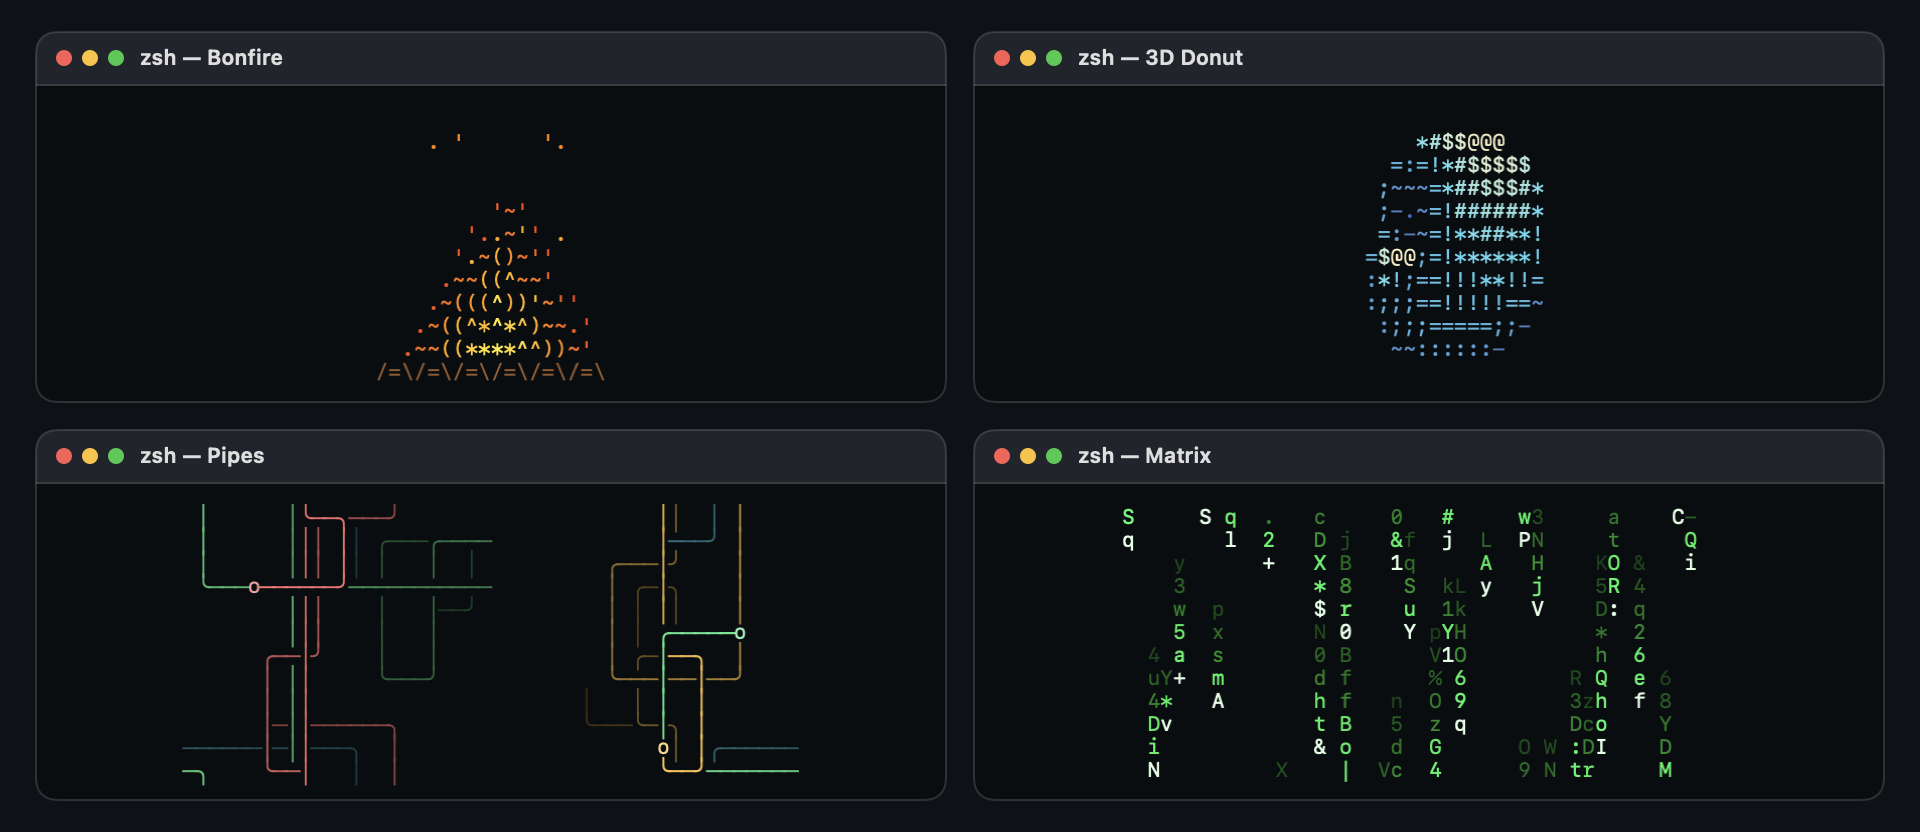
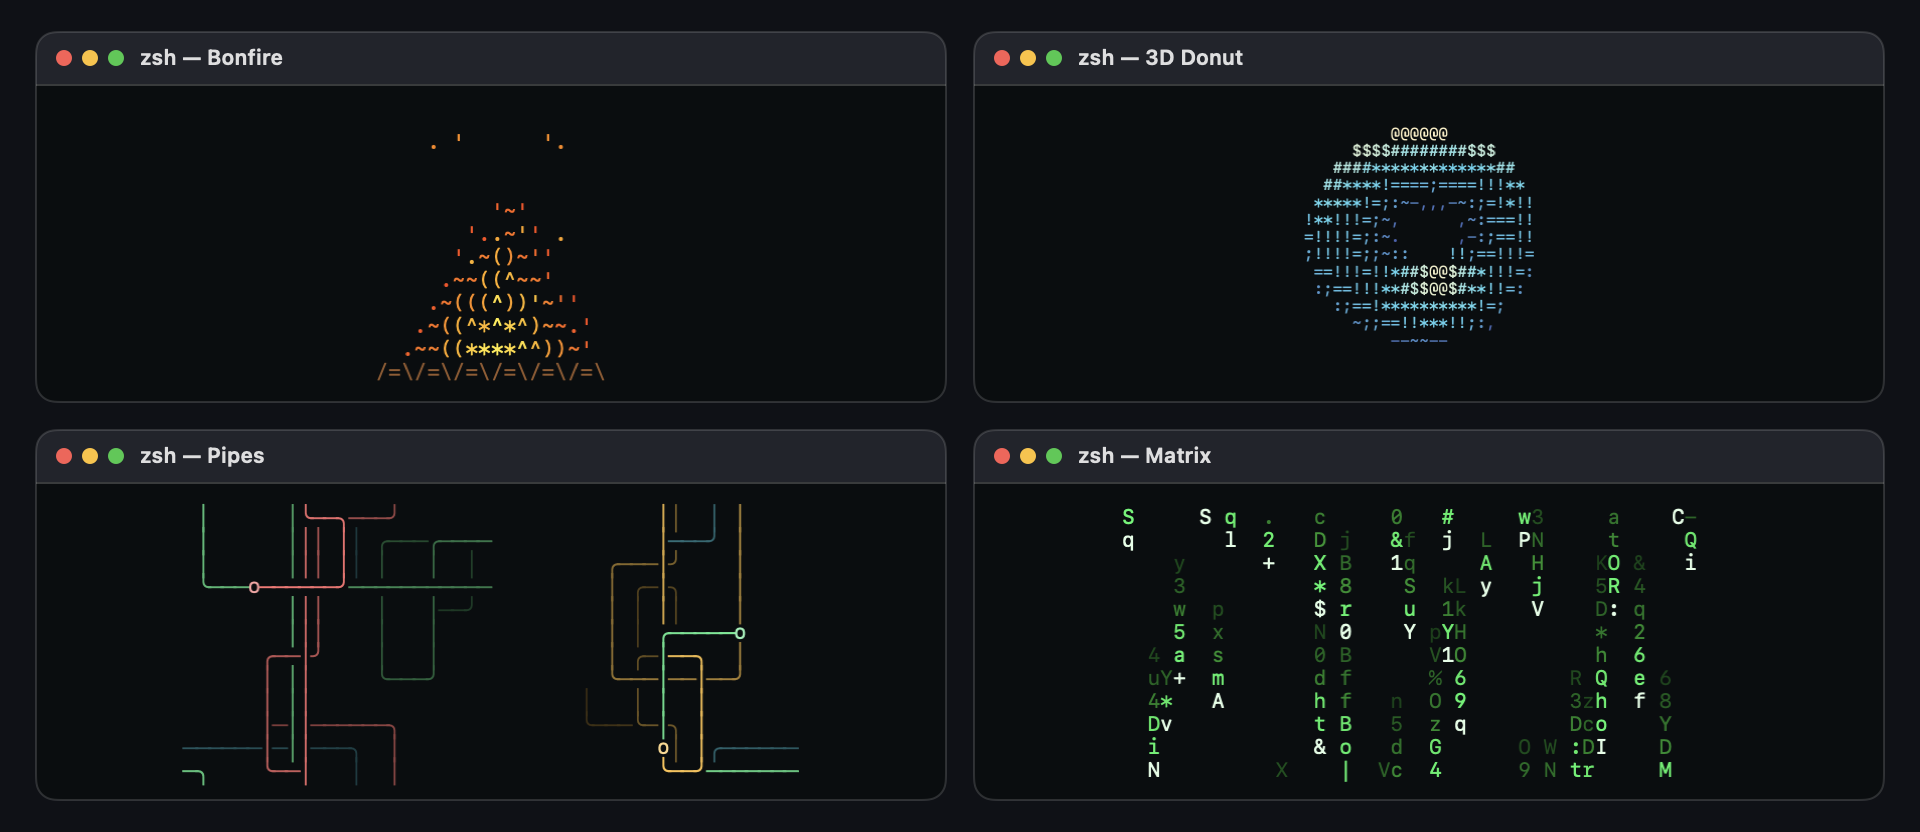
docs: improve 3D Donut angle and add compact custom media cutout demo

Changed region(s): [[0.6875, 0.1562, 0.8125, 0.4375]]

diff --git a/Scripts/generate_tool_graphics.swift b/Scripts/generate_tool_graphics.swift
@@ -34,6 +34,49 @@ struct GenerateToolGraphics {
             height: 170,
             to: outputDir.appendingPathComponent("yeoman_scroll_reverser.png")
         )
+
+        let args = CommandLine.arguments
+        if let srcIdx = args.firstIndex(of: "--media-source"), srcIdx + 1 < args.count,
+           let cutIdx = args.firstIndex(of: "--media-cutout"), cutIdx + 1 < args.count {
+            let requestedFrame: Int = {
+                if let fIdx = args.firstIndex(of: "--media-frame"), fIdx + 1 < args.count,
+                   let parsed = Int(args[fIdx + 1]) {
+                    return parsed
+                }
+                return 6
+            }()
+            do {
+                let sourceURL = URL(fileURLWithPath: args[srcIdx + 1])
+                let cutoutURL = URL(fileURLWithPath: args[cutIdx + 1])
+                let sourceData = try Data(contentsOf: sourceURL)
+                let cutoutData = try Data(contentsOf: cutoutURL)
+                let sourceDecoded = try TerminalSaverMediaDecoder.decodeImage(data: sourceData)
+                let cutoutDecoded = try TerminalSaverMediaDecoder.decodeImage(data: cutoutData)
+                guard !sourceDecoded.frames.isEmpty, !cutoutDecoded.frames.isEmpty else {
+                    print("Skipped custom media graphic: decoded frame list is empty")
+                    return
+                }
+                let frameIndex = max(0, min(requestedFrame, min(sourceDecoded.frames.count, cutoutDecoded.frames.count) - 1))
+                let sourceCG = sourceDecoded.frames[frameIndex].image
+                let cutoutCG = cutoutDecoded.frames[frameIndex].image
+                let settings = ASCIIRenderSettings(style: .filigree, colorPreset: .original, fitMode: .contain)
+                let fullASCII = ASCIIRenderEngine.render(image: sourceCG, columns: 56, rows: 18, settings: settings)
+                let cutoutASCII = ASCIIRenderEngine.render(image: cutoutCG, columns: 56, rows: 18, settings: settings)
+
+                capture(
+                    view: CustomMediaDemoGraphic(
+                        sourceCG: sourceCG,
+                        fullASCII: fullASCII,
+                        cutoutASCII: cutoutASCII
+                    ).preferredColorScheme(.dark),
+                    width: 960,
+                    height: 236,
+                    to: outputDir.appendingPathComponent("yeoman_terminal_saver_media.png")
+                )
+            } catch {
+                print("Failed custom media graphic: \(error)")
+            }
+        }
     }
 
     @MainActor
@@ -102,7 +145,7 @@ private struct TerminalSaverShowcaseGraphic: View {
         height: 158
     )
     private let donutImage = renderASCIIToImage(
-        TerminalSaverProceduralScenes.frame(scene: .spinningDonut, columns: 48, rows: 12, time: 2.3),
+        TerminalSaverProceduralScenes.frame(scene: .spinningDonut, columns: 56, rows: 16, time: 1.15),
         width: 452,
         height: 158
     )
@@ -490,5 +533,93 @@ private struct ScrollDeviceCard: View {
         .frame(maxWidth: .infinity, maxHeight: .infinity)
         .background(RoundedRectangle(cornerRadius: 11).fill(Color(red: 0.11, green: 0.12, blue: 0.14)))
         .overlay(RoundedRectangle(cornerRadius: 11).stroke(Color.white.opacity(0.12), lineWidth: 1))
+    }
+}
+
+// MARK: - 4. Compact Custom Media & Cutout Pipeline
+
+private struct CustomMediaDemoGraphic: View {
+    let sourceImage: NSImage
+    let fullASCIIImage: NSImage
+    let cutoutASCIIImage: NSImage
+
+    init(sourceCG: CGImage, fullASCII: ASCIIFrame, cutoutASCII: ASCIIFrame) {
+        self.sourceImage = NSImage(cgImage: sourceCG, size: NSSize(width: sourceCG.width, height: sourceCG.height))
+        self.fullASCIIImage = renderASCIIToImage(fullASCII, width: 280, height: 164)
+        self.cutoutASCIIImage = renderASCIIToImage(cutoutASCII, width: 280, height: 164)
+    }
+
+    var body: some View {
+        ZStack {
+            canvasBackground
+
+            HStack(spacing: 12) {
+                MediaStageCard(title: "Source Media") {
+                    Image(nsImage: sourceImage)
+                        .resizable()
+                        .aspectRatio(contentMode: .fit)
+                        .frame(maxWidth: .infinity, maxHeight: .infinity)
+                        .padding(8)
+                        .background(Color(red: 0.04, green: 0.05, blue: 0.06))
+                }
+
+                Image(systemName: "arrow.right")
+                    .font(.system(size: 13, weight: .semibold))
+                    .foregroundColor(.white.opacity(0.45))
+
+                MediaStageCard(title: "zsh — Filigree ASCII") {
+                    Image(nsImage: fullASCIIImage)
+                        .resizable()
+                        .frame(maxWidth: .infinity, maxHeight: .infinity)
+                }
+
+                Image(systemName: "arrow.right")
+                    .font(.system(size: 13, weight: .semibold))
+                    .foregroundColor(.white.opacity(0.45))
+
+                MediaStageCard(title: "zsh — Remove Background") {
+                    Image(nsImage: cutoutASCIIImage)
+                        .resizable()
+                        .frame(maxWidth: .infinity, maxHeight: .infinity)
+                }
+            }
+            .padding(16)
+        }
+    }
+}
+
+private struct MediaStageCard<Content: View>: View {
+    let title: String
+    @ViewBuilder let content: () -> Content
+
+    var body: some View {
+        VStack(spacing: 0) {
+            HStack(spacing: 7) {
+                HStack(spacing: 4.5) {
+                    Circle().fill(Color(red: 1.0, green: 0.36, blue: 0.33)).frame(width: 7.5, height: 7.5)
+                    Circle().fill(Color(red: 1.0, green: 0.76, blue: 0.18)).frame(width: 7.5, height: 7.5)
+                    Circle().fill(Color(red: 0.16, green: 0.79, blue: 0.28)).frame(width: 7.5, height: 7.5)
+                }
+                Text(title)
+                    .font(.system(size: 10.5, weight: .semibold))
+                    .foregroundColor(.white.opacity(0.85))
+                Spacer()
+            }
+            .padding(.horizontal, 10)
+            .frame(height: 25)
+            .background(Color(red: 0.13, green: 0.14, blue: 0.17))
+
+            Divider().background(Color.white.opacity(0.1))
+
+            content()
+                .frame(maxWidth: .infinity)
+                .frame(height: 164)
+        }
+        .background(Color(red: 0.04, green: 0.05, blue: 0.06))
+        .clipShape(RoundedRectangle(cornerRadius: 10))
+        .overlay(
+            RoundedRectangle(cornerRadius: 10)
+                .stroke(Color.white.opacity(0.14), lineWidth: 1)
+        )
     }
 }

diff --git a/README.md b/README.md
@@ -66,6 +66,10 @@ Displays multicolor, edge-aware filigree ASCII art in any terminal emulator (`Te
 - **Shell & tmux Integration:** Bundles a standalone `YeomanTermSaver` CLI helper managed via idempotent delimited blocks in `~/.zshrc`, `~/.bashrc`, `~/.config/fish/conf.d/`, and `~/.tmux.conf` with zero background daemon polling.
 
 <p align="center">
+  <img src="Resources/Mockups/yeoman_terminal_saver_media.png" alt="Custom Media Pipeline: Source Frame, Filigree ASCII, and On-Device Background Cutout" width="96%" />
+</p>
+
+<p align="center">
   <img src="Resources/Mockups/yeoman_terminal_saver.png" alt="Terminal Saver Settings and 16:9 Live Preview" width="96%" />
 </p>
 
